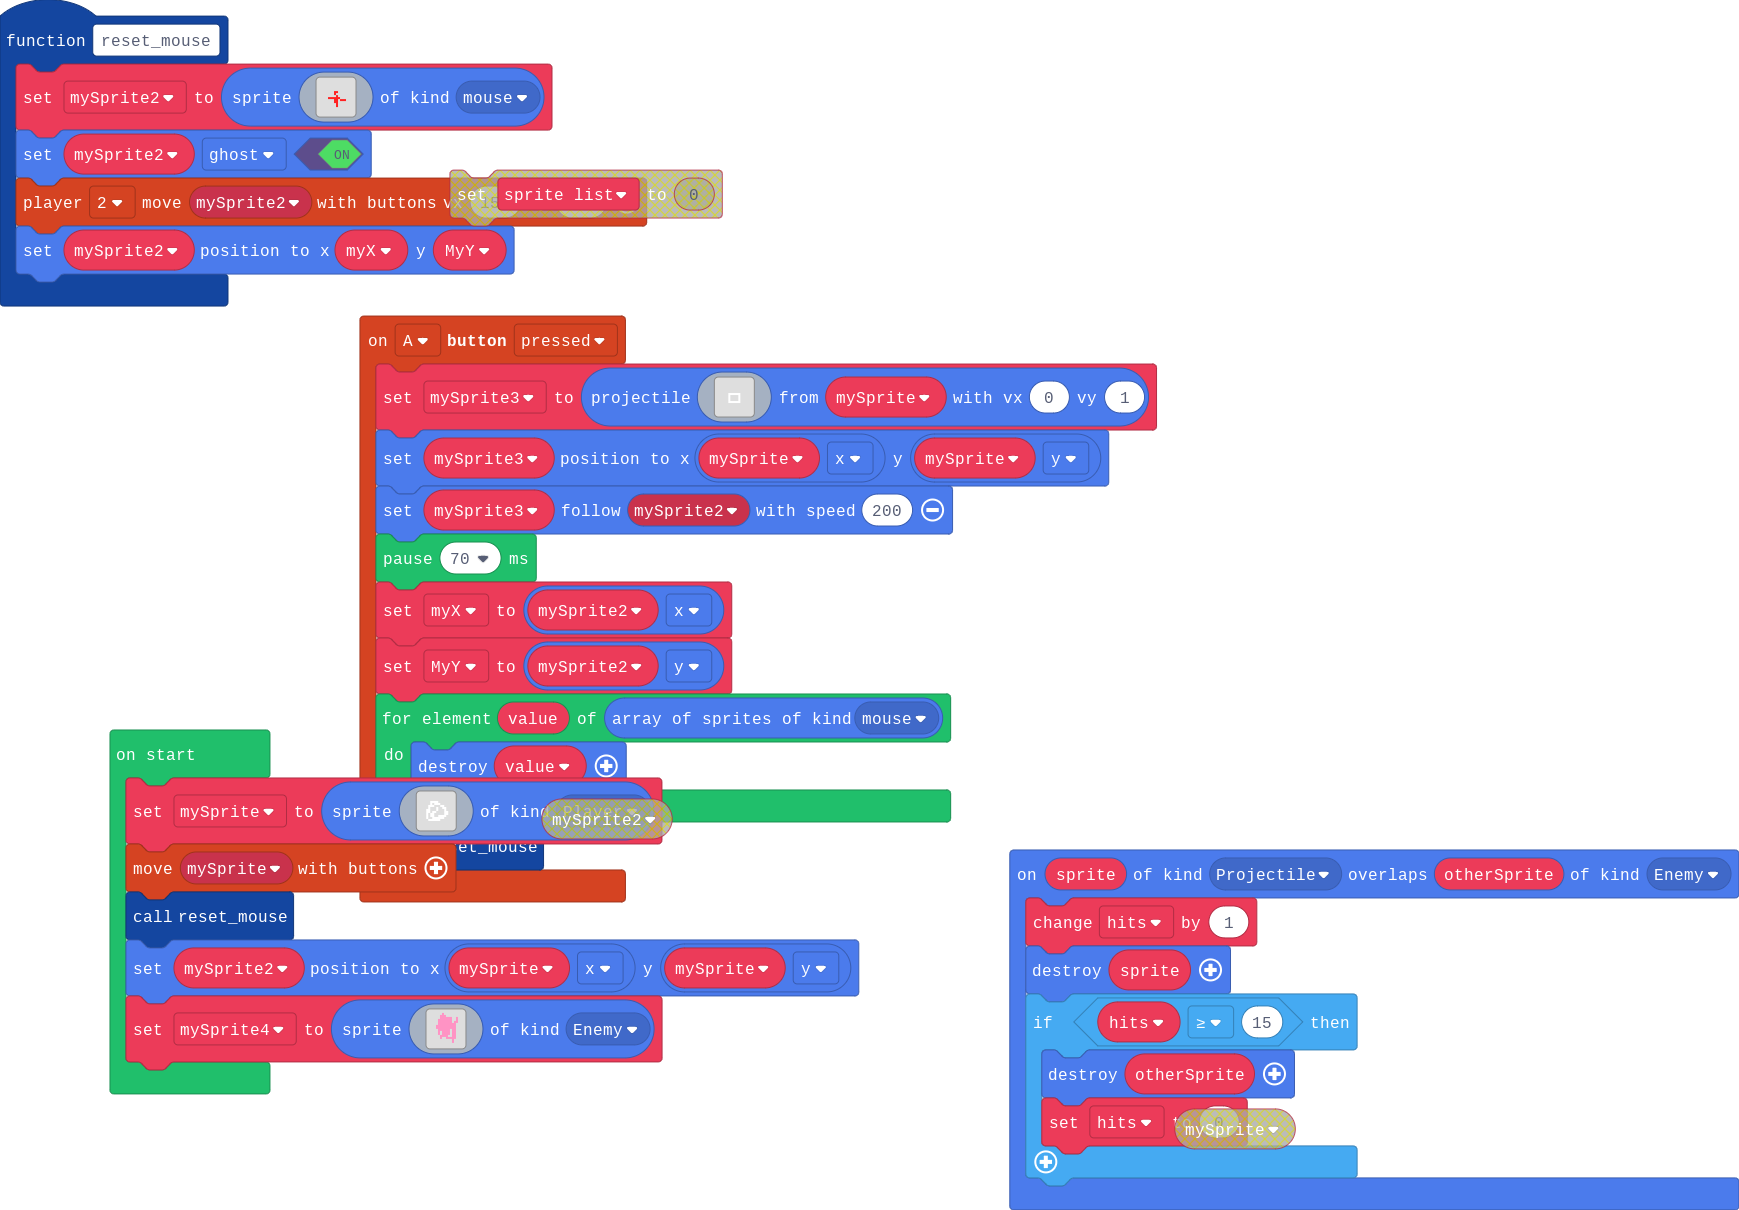
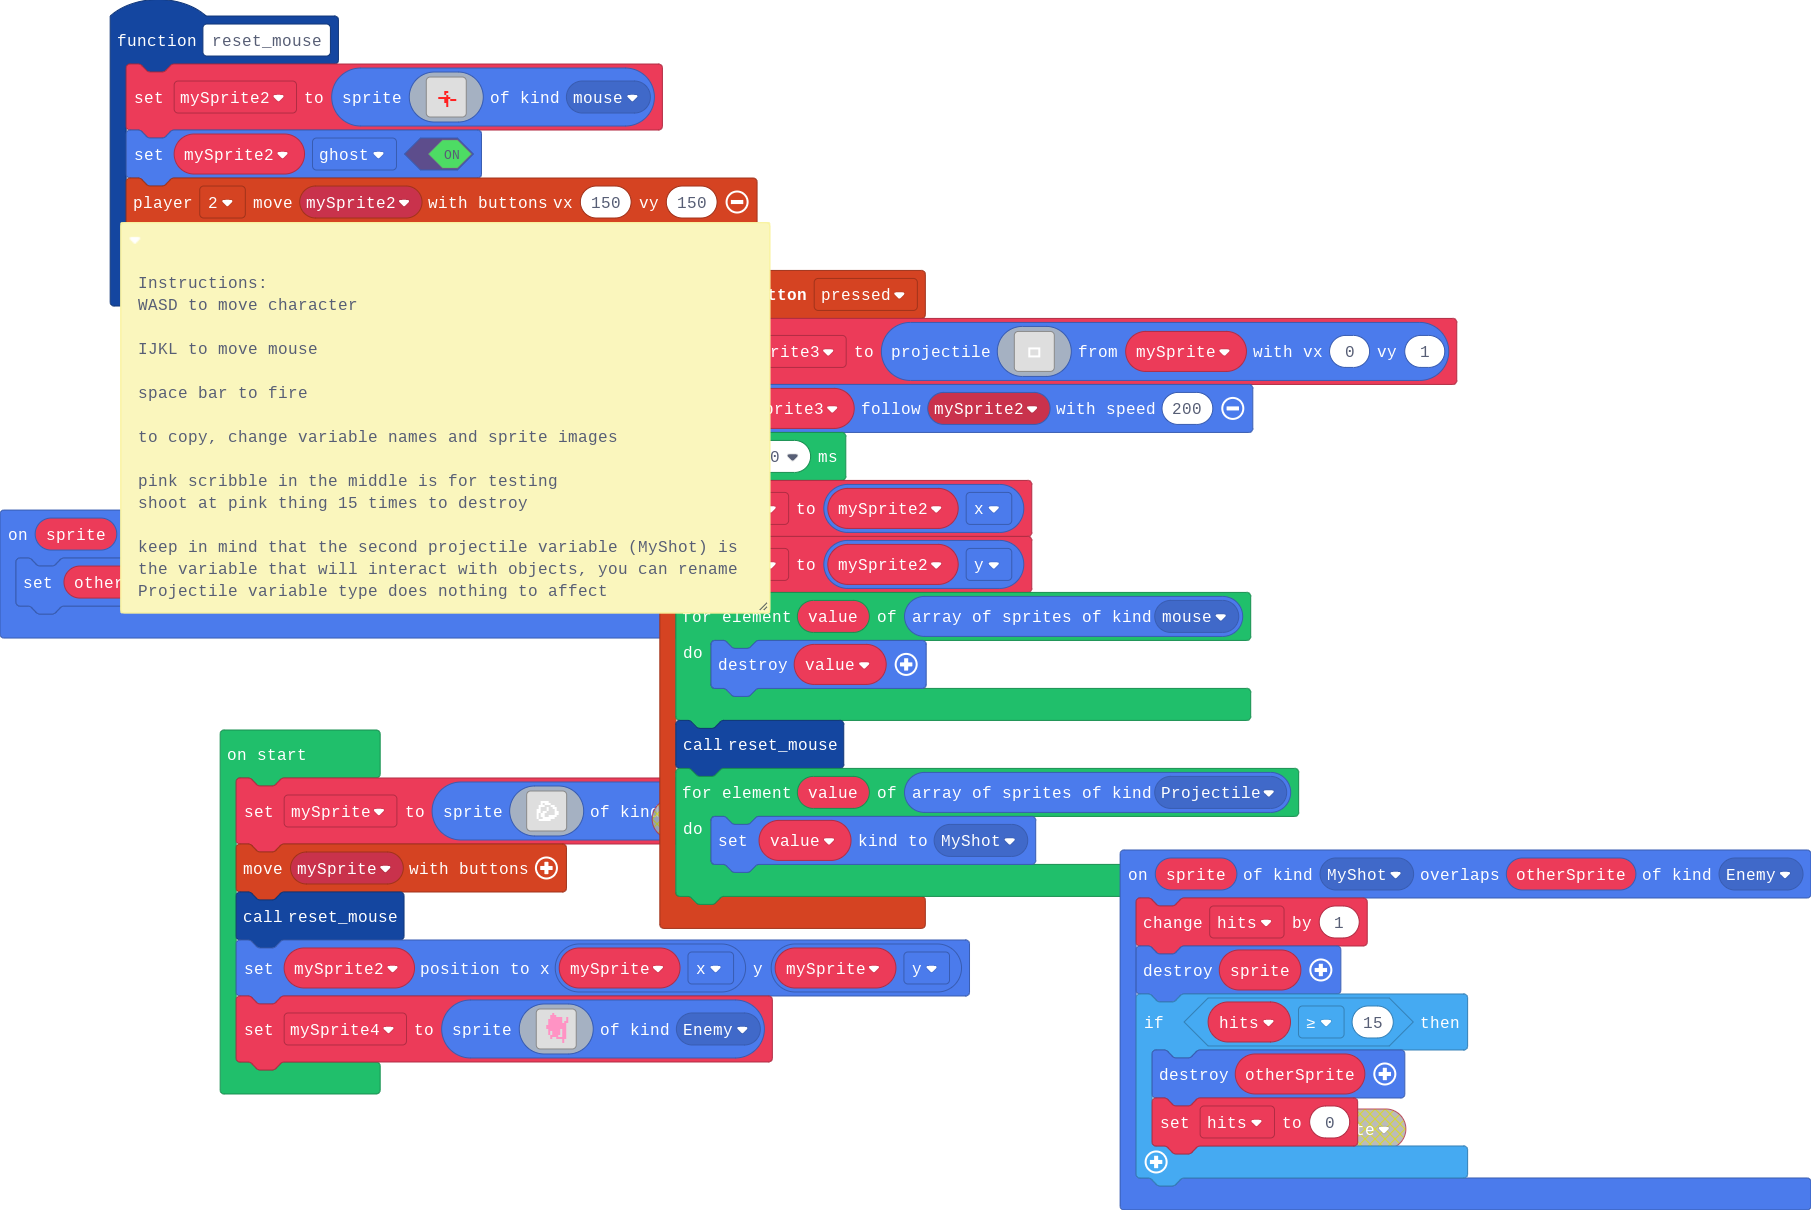
added notes

diff --git a/main.ts b/main.ts
@@ -2,7 +2,7 @@ namespace SpriteKind {
     export const MyShot = SpriteKind.create()
     export const mouse = SpriteKind.create()
 }
-sprites.onOverlap(SpriteKind.Projectile, SpriteKind.Enemy, function (sprite, otherSprite) {
+sprites.onOverlap(SpriteKind.MyShot, SpriteKind.Enemy, function (sprite, otherSprite) {
     hits += 1
     sprite.destroy()
     if (hits >= 15) {
@@ -29,16 +29,42 @@ controller.A.onEvent(ControllerButtonEvent.Pressed, function () {
 . . . . . . . . . . . . . . . . 
 . . . . . . . . . . . . . . . . 
 `, mySprite, 0, 1)
-    mySprite3.setPosition(mySprite.x, mySprite.y)
     mySprite3.follow(mySprite2, 200)
-    pause(70)
+    pause(100)
     myX = mySprite2.x
     MyY = mySprite2.y
     for (let value of sprites.allOfKind(SpriteKind.mouse)) {
         value.destroy()
     }
     reset_mouse()
+    for (let value of sprites.allOfKind(SpriteKind.Projectile)) {
+        value.setKind(SpriteKind.MyShot)
+    }
 })
+sprites.onOverlap(SpriteKind.Player, SpriteKind.MyShot, function (sprite, otherSprite) {
+    otherSprite.follow(mySprite3, 200)
+})
+/**
+ * Instructions:
+ * 
+ * WASD to move character
+ * 
+ * IJKL to move mouse
+ * 
+ * space bar to fire
+ * 
+ * to copy, change variable names and sprite images
+ * 
+ * pink scribble in the middle is for testing
+ * 
+ * shoot at pink thing 15 times to destroy
+ * 
+ * keep in mind that the second projectile variable (MyShot) is 
+ * 
+ * the variable that will interact with objects, you can rename
+ * 
+ * Projectile variable type does nothing to affect
+ */
 function reset_mouse () {
     mySprite2 = sprites.create(img`
 . . . . . . . . . . . . . . . . 
